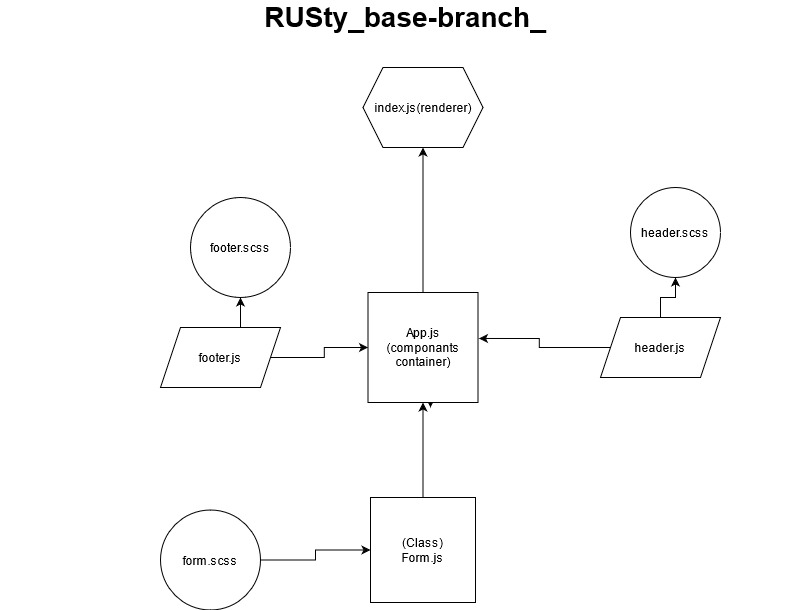
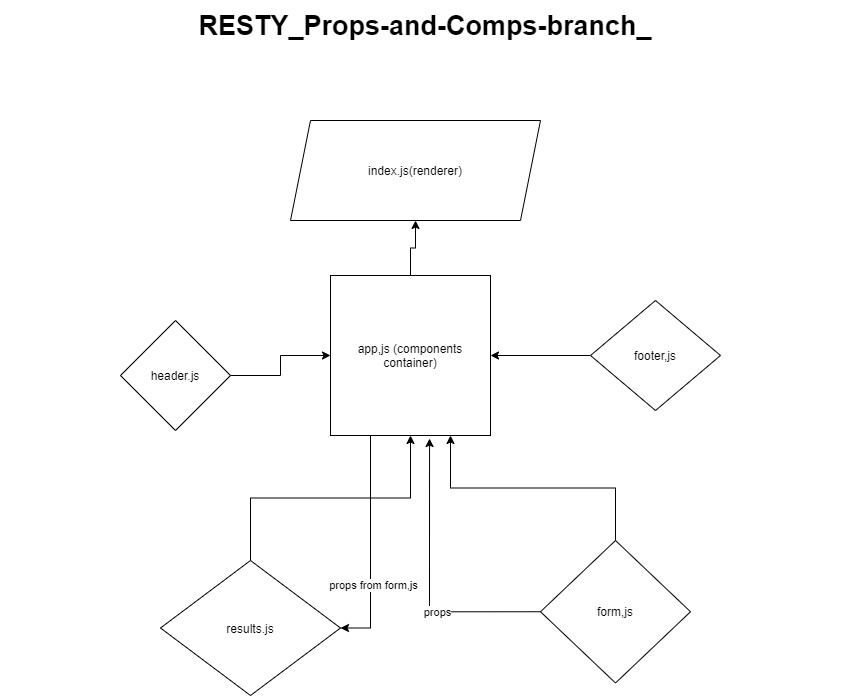
readme

diff --git a/README.md b/README.md
@@ -1,11 +1,9 @@
-# LAB - 04
+# LAB - Class:27
 
-## Deployment Test
+## Author: Mohammad Quthama
 
-### Author: Mohammad Quthama
-
-- [submission PR](https://github.com/mohammad-qethama/resty/pull/1)
-- [master-deployment](https://codesandbox.io/s/eager-bas-hnrq7?file=/src/index.js)
+- [submission PR](https://github.com/mohammad-qethama/resty/pull/2)
+- [master-deployment](https://mohammad-qethama.github.io/resty/)
 
 ### Setup
 
@@ -16,12 +14,16 @@
 - react.
 - react-dom.
 - react-scripts.
+- react-pre
 - web-vitals
 - node-sass@4.14.1
+- superagent
+- react-json-pretty
 
 #### Devdependencies
 
 - eslint
+- gh-pages
 
 #### Running the app
 
